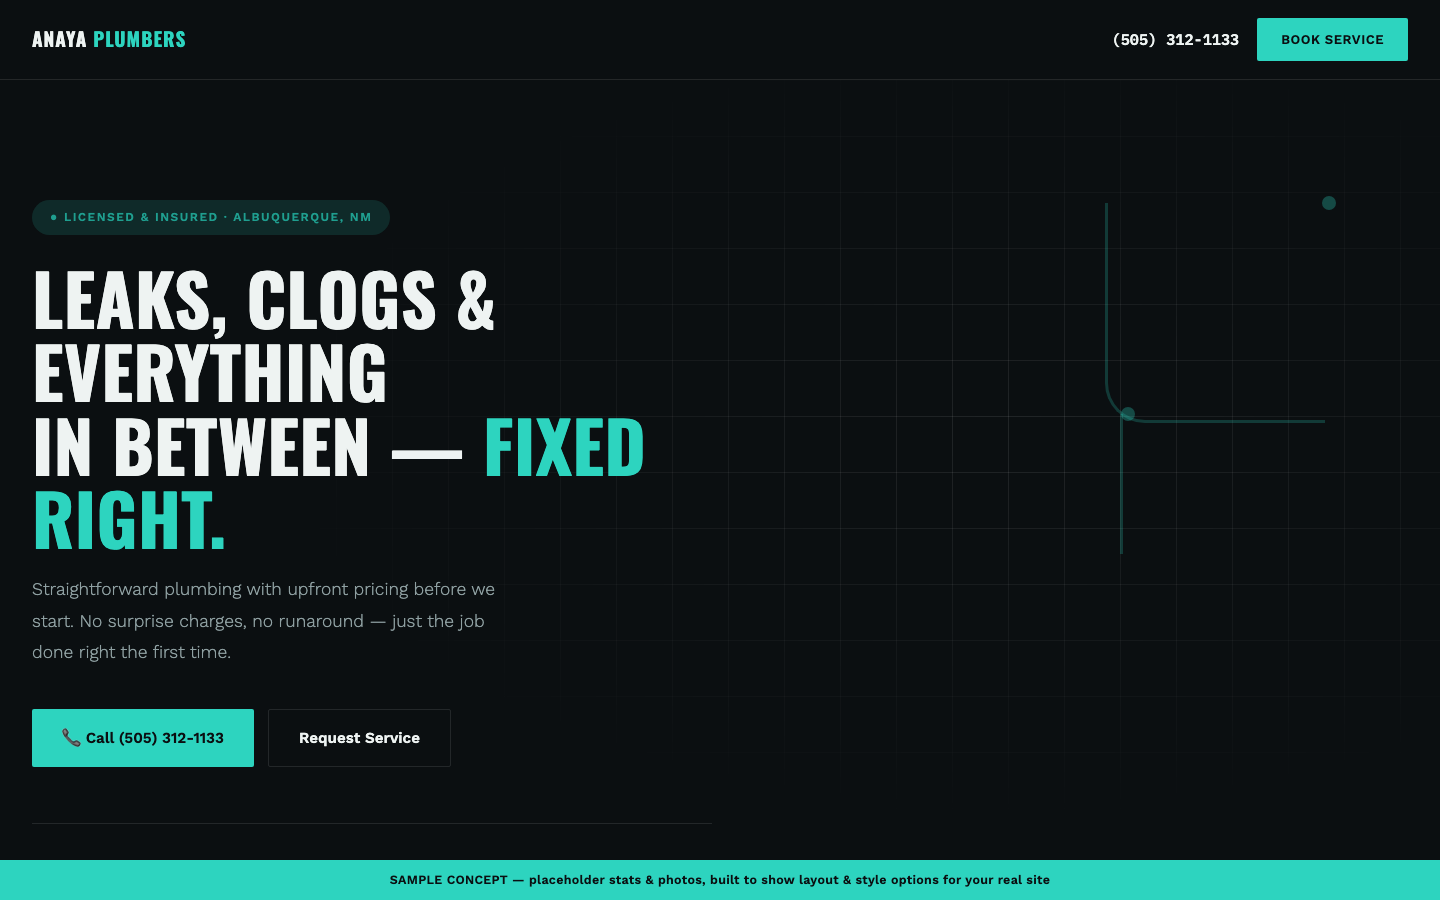
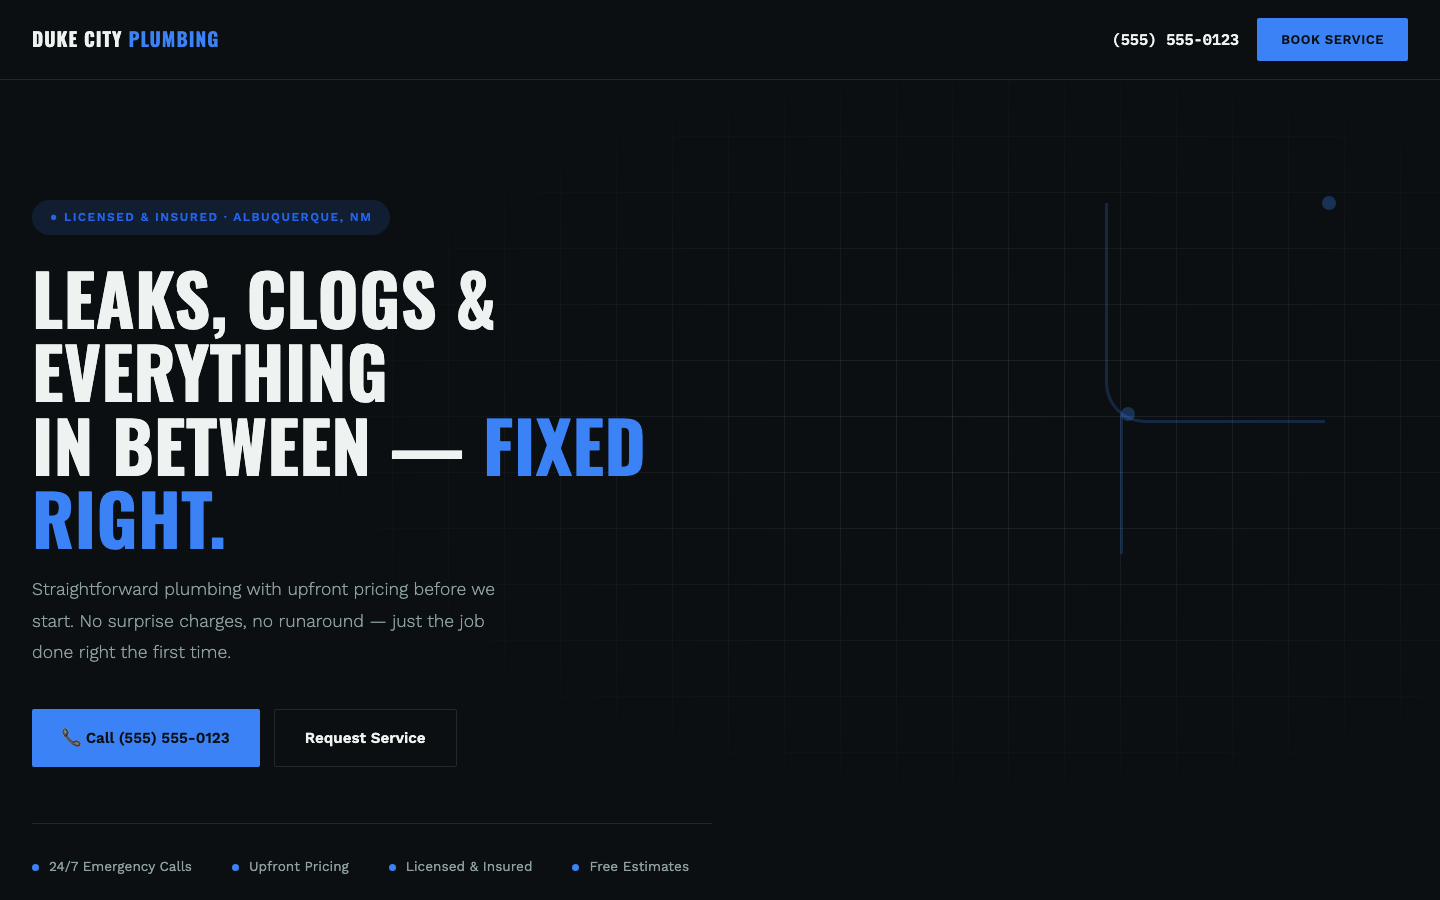
Rework portfolio section: rename demo plumbing site, link Joel's, drop NMGrassVB
- Anaya Plumbers demo renamed to Duke City Plumbing with a distinct blue
  color scheme, new screenshot, so it reads as an independent client site
  rather than a copy of our own branding
- Joel's Photography portfolio entries now link out to its live site
  (Carrara Stoneworks and Duke City Plumbing stay non-clickable)
- Removed NMGrassVB from Our Work

diff --git a/our-work.html b/our-work.html
@@ -151,6 +151,7 @@
     background: var(--card); border: 1px solid var(--border); border-radius: 8px;
     overflow: hidden;
     transition: border-color 0.2s;
+    text-decoration: none;
   }
 
   .work-item:hover { border-color: var(--accent); }
@@ -290,14 +291,14 @@
 
 <section class="section">
   <div class="work-list">
-    <div class="work-item">
+    <a class="work-item" href="https://n8r8rs-hub.github.io/joels-photography/" target="_blank" rel="noopener">
       <div class="work-item-img"><img src="images/joels-photography.png" alt="Joel's Photography website"></div>
       <div class="work-item-body">
         <span class="work-tag">Creative</span>
         <h3>Joel's Photography</h3>
         <p>A dark, gallery-driven portfolio site with a self-service events system — new shoots go live without touching a line of code.</p>
       </div>
-    </div>
+    </a>
     <div class="work-item">
       <div class="work-item-img"><img src="images/carrara-stoneworks.png" alt="Carrara Stoneworks website"></div>
       <div class="work-item-body">
@@ -307,19 +308,11 @@
       </div>
     </div>
     <div class="work-item">
-      <div class="work-item-img"><img src="images/anaya-plumbers.png" alt="Anaya Plumbers website"></div>
+      <div class="work-item-img"><img src="images/anaya-plumbers.png" alt="Duke City Plumbing website"></div>
       <div class="work-item-body">
         <span class="work-tag">Plumbing</span>
-        <h3>Anaya Plumbers</h3>
+        <h3>Duke City Plumbing</h3>
         <p>A residential plumbing site built around trust and speed — upfront pricing, licensed &amp; insured messaging, and a click-to-call built into every section.</p>
-      </div>
-    </div>
-    <div class="work-item">
-      <div class="work-item-img"><img src="images/nmgrassvb.png" alt="NMGrassVB website"></div>
-      <div class="work-item-body">
-        <span class="work-tag">Sports &amp; Events</span>
-        <h3>NMGrassVB</h3>
-        <p>A tournament registration site with live event listings that automatically hide past dates — built to stay current with zero maintenance.</p>
       </div>
     </div>
   </div>

diff --git a/websites.html b/websites.html
@@ -112,6 +112,7 @@
     display: grid; grid-template-columns: 1.1fr 1fr;
     background: var(--card); border: 1px solid var(--border); border-radius: 8px;
     overflow: hidden; transition: border-color 0.2s;
+    text-decoration: none;
   }
   .work-item:hover { border-color: var(--accent); }
   .work-item:nth-child(even) { grid-template-columns: 1fr 1.1fr; }
@@ -242,13 +243,13 @@
   </div>
 
   <div class="work-list">
-    <div class="work-item">
+    <a class="work-item" href="https://n8r8rs-hub.github.io/joels-photography/" target="_blank" rel="noopener">
       <div class="work-item-img"><img src="images/joels-photography.png" alt="Joel's Photography website"></div>
       <div class="work-item-body">
         <h4>Joel's Photography</h4>
         <p>A dark, gallery-driven portfolio site with a self-service events system — new shoots go live without touching a line of code.</p>
       </div>
-    </div>
+    </a>
     <div class="work-item">
       <div class="work-item-img"><img src="images/carrara-stoneworks.png" alt="Carrara Stoneworks website"></div>
       <div class="work-item-body">
@@ -257,9 +258,9 @@
       </div>
     </div>
     <div class="work-item">
-      <div class="work-item-img"><img src="images/anaya-plumbers.png" alt="Anaya Plumbers website"></div>
+      <div class="work-item-img"><img src="images/anaya-plumbers.png" alt="Duke City Plumbing website"></div>
       <div class="work-item-body">
-        <h4>Anaya Plumbers</h4>
+        <h4>Duke City Plumbing</h4>
         <p>A residential plumbing site built around trust and speed — upfront pricing, licensed &amp; insured messaging, and click-to-call built into every section.</p>
       </div>
     </div>

diff --git a/index.html b/index.html
@@ -618,18 +618,18 @@
   <p class="section-p">No templates. Every project designed around the business it's actually for.</p>
 
   <div class="work-grid">
-    <a href="our-work.html" class="work-card">
+    <a href="https://n8r8rs-hub.github.io/joels-photography/" class="work-card" target="_blank" rel="noopener">
       <img src="images/joels-photography.png" alt="Joel's Photography website">
       <div class="work-card-label">Joel's Photography — Portfolio &amp; Events</div>
     </a>
-    <a href="our-work.html" class="work-card">
+    <div class="work-card">
       <img src="images/carrara-stoneworks.png" alt="Carrara Stoneworks website">
       <div class="work-card-label">Carrara Stoneworks — Stone &amp; Countertop Fabrication</div>
-    </a>
-    <a href="our-work.html" class="work-card">
-      <img src="images/anaya-plumbers.png" alt="Anaya Plumbers website">
-      <div class="work-card-label">Anaya Plumbers — Residential Plumbing</div>
-    </a>
+    </div>
+    <div class="work-card">
+      <img src="images/anaya-plumbers.png" alt="Duke City Plumbing website">
+      <div class="work-card-label">Duke City Plumbing — Residential Plumbing</div>
+    </div>
   </div>
 </section>
 
